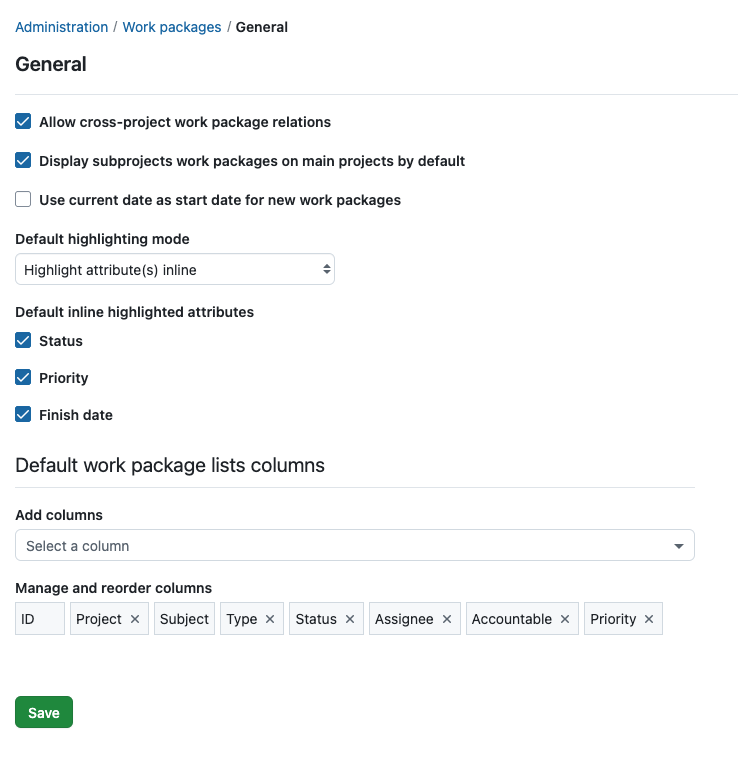
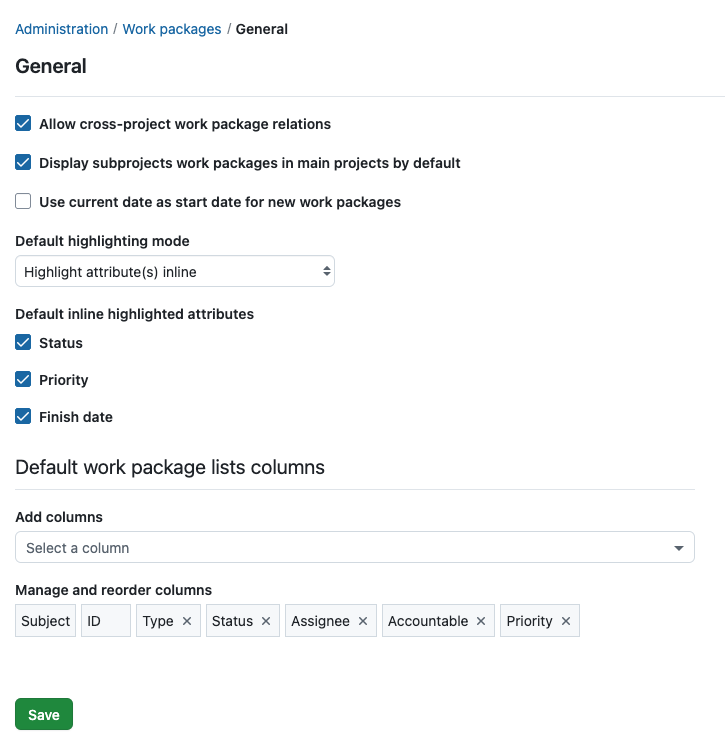
Update translation

diff --git a/spec/features/admin/settings/work_packages_general_spec.rb b/spec/features/admin/settings/work_packages_general_spec.rb
@@ -49,7 +49,7 @@ RSpec.describe "Work packages general admin settings", :js do
     visit admin_settings_work_packages_general_path
 
     expect(page).to have_checked_field "Allow cross-project work package relations"
-    expect(page).to have_checked_field "Display subprojects work packages on main projects by default"
+    expect(page).to have_checked_field "Display subprojects work packages in main projects by default"
     expect(page).to have_unchecked_field "Use current date as start date for new work packages"
     expect(page).to have_select "Default highlighting mode", selected: "Highlight attribute(s) inline"
     expect(page).to have_element("fieldset", text: "Default inline highlighted attributes")
@@ -60,7 +60,7 @@ RSpec.describe "Work packages general admin settings", :js do
     end
 
     uncheck "Allow cross-project work package relations"
-    uncheck "Display subprojects work packages on main projects by default"
+    uncheck "Display subprojects work packages in main projects by default"
     check "Use current date as start date for new work packages"
     within_fieldset "Default inline highlighted attributes" do
       uncheck "Priority"
@@ -74,7 +74,7 @@ RSpec.describe "Work packages general admin settings", :js do
     expect(Setting.work_package_list_default_highlighted_attributes).to eq(["status"])
 
     expect(page).to have_unchecked_field "Allow cross-project work package relations"
-    expect(page).to have_unchecked_field "Display subprojects work packages on main projects by default"
+    expect(page).to have_unchecked_field "Display subprojects work packages in main projects by default"
     expect(page).to have_checked_field "Use current date as start date for new work packages"
     expect(page).to have_select "Default highlighting mode", selected: "Highlight attribute(s) inline"
     expect(page).to have_element("fieldset", text: "Default inline highlighted attributes")

diff --git a/docs/system-admin-guide/manage-work-packages/work-package-settings/README.md b/docs/system-admin-guide/manage-work-packages/work-package-settings/README.md
@@ -15,7 +15,7 @@ You can adjust the following:
 
 1. **Allow cross-project work package relations**, i.e. that work packages created in one project can have relations to work packages in another project, for example parent-children work packages.
 
-2. **Display subprojects work packages on main projects** by default. This way the work packages of subprojects will always be visible in the main project if a user has the corresponding role in the subproject to see work packages.
+2. **Display subprojects work packages in main projects** by default. This way the work packages of subprojects will always be visible in the main project if a user has the corresponding role in the subproject to see work packages.
 
 3. **Use current date as start date for new work packages**. This way the current date will always be set as a start date if you create new work packages. Also, if you copy projects, the new work packages will get the current date as start date.
 
